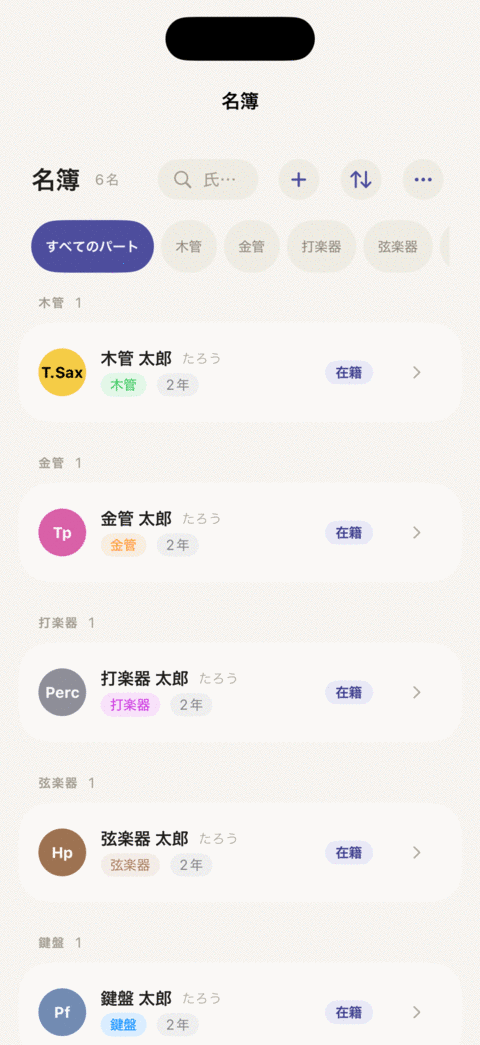
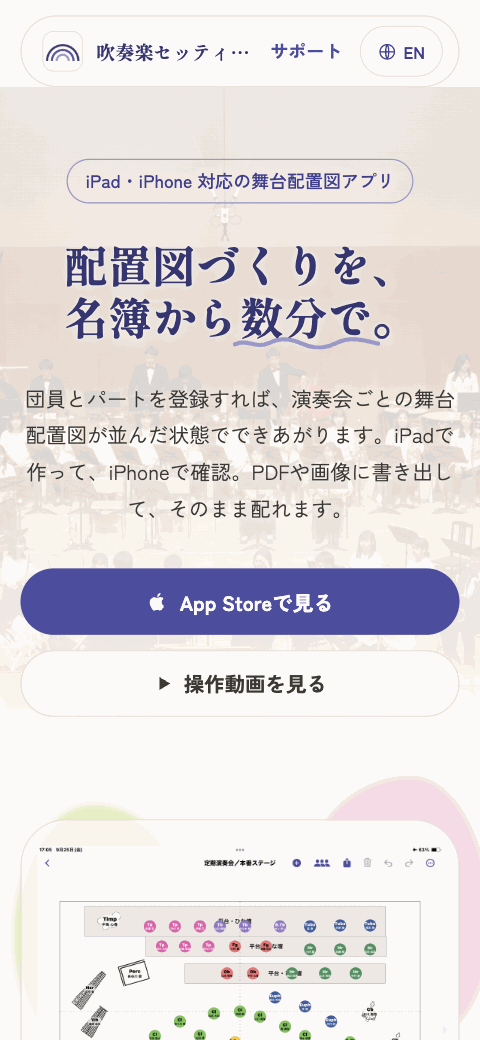
Feature Imatsure in place of XcodeSentinel; refresh EnsembleStage and Netagicho images
- Add 今釣れ (Imatsure, https://imatsure.com/) as a featured Web product
- Move XcodeSentinel out of Featured (still listed under Tools)
- Retake EnsembleStage / Netagicho shots from their current support sites
- Bump the last-updated label to 2026.10

diff --git a/src/data/projects.ts b/src/data/projects.ts
@@ -214,7 +214,7 @@ export const projects: Project[] = [
     ],
     appStoreUrl: 'https://apps.apple.com/jp/app/id6797323735',
     supportUrl: 'https://netagicho.margheritaworks.com/',
-    screenshots: ['/projects/futomemo-1.png'],
+    screenshots: ['/projects/netagicho-1.png'],
   },
   {
     id: 'photoslim',
@@ -359,10 +359,23 @@ export const projects: Project[] = [
     // 実機/App Store提出用のスクリーンショット素材が見つかっていません
   },
   {
+    id: 'imatsure',
+    name: { ja: '今釣れ（いまつれ）', en: 'Imatsure' },
+    category: 'Web',
+    featured: true,
+    status: 'active',
+    platforms: ['Web'],
+    description: {
+      ja: '相模湾と東京湾の船宿が毎日出す釣果を集めて、魚種ごとに「上向き」「下向き」がひと目でわかる Web サイト。',
+      en: 'Pulls together the daily catch reports from charter boats on Sagami Bay and Tokyo Bay, so you can see at a glance which fish are on the rise and which are tapering off.',
+    },
+    websiteUrl: 'https://imatsure.com/',
+    screenshots: ['/projects/imatsure-1.png'],
+  },
+  {
     id: 'xcode-sentinel',
     name: { ja: 'XcodeSentinel', en: 'XcodeSentinel' },
     category: 'Tool',
-    featured: true,
     status: 'active',
     technologies: ['Swift', 'SwiftUI', 'AppKit', 'Accessibility API'],
     platforms: ['Mac'],

diff --git a/src/i18n/translations.ts b/src/i18n/translations.ts
@@ -50,7 +50,7 @@ export const ui: Record<Lang, UI> = {
     about:
       'ひとりで企画・設計・実装まで行っています。使う人が迷わないこと、開いてすぐ用が済むことを基準にプロダクトを選んでいます。',
     meta_count: (n: number) => 'プロダクト ' + n + ' 件',
-    updated: '最終更新 2026.09',
+    updated: '最終更新 2026.10',
     links: {
       appStore: 'App Store',
       chromeWebStore: 'Chrome ウェブストア',
@@ -89,7 +89,7 @@ export const ui: Record<Lang, UI> = {
     about:
       'I design and build everything myself. A product ships when it is obvious to use and finishes the job the moment you open it.',
     meta_count: (n: number) => n + ' products',
-    updated: 'Updated 2026.09',
+    updated: 'Updated 2026.10',
     links: {
       appStore: 'App Store',
       chromeWebStore: 'Chrome Web Store',
